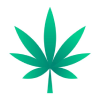
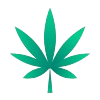
repleced service images

diff --git a/public_html/style.css b/public_html/style.css
@@ -418,8 +418,6 @@ img {
 }
 
 .cbailylaw__service--card img {
-    mix-blend-mode: multiply;
-    filter: contrast(1);
     margin-bottom: 30px;
     height: 100px;
     width: 100px;
